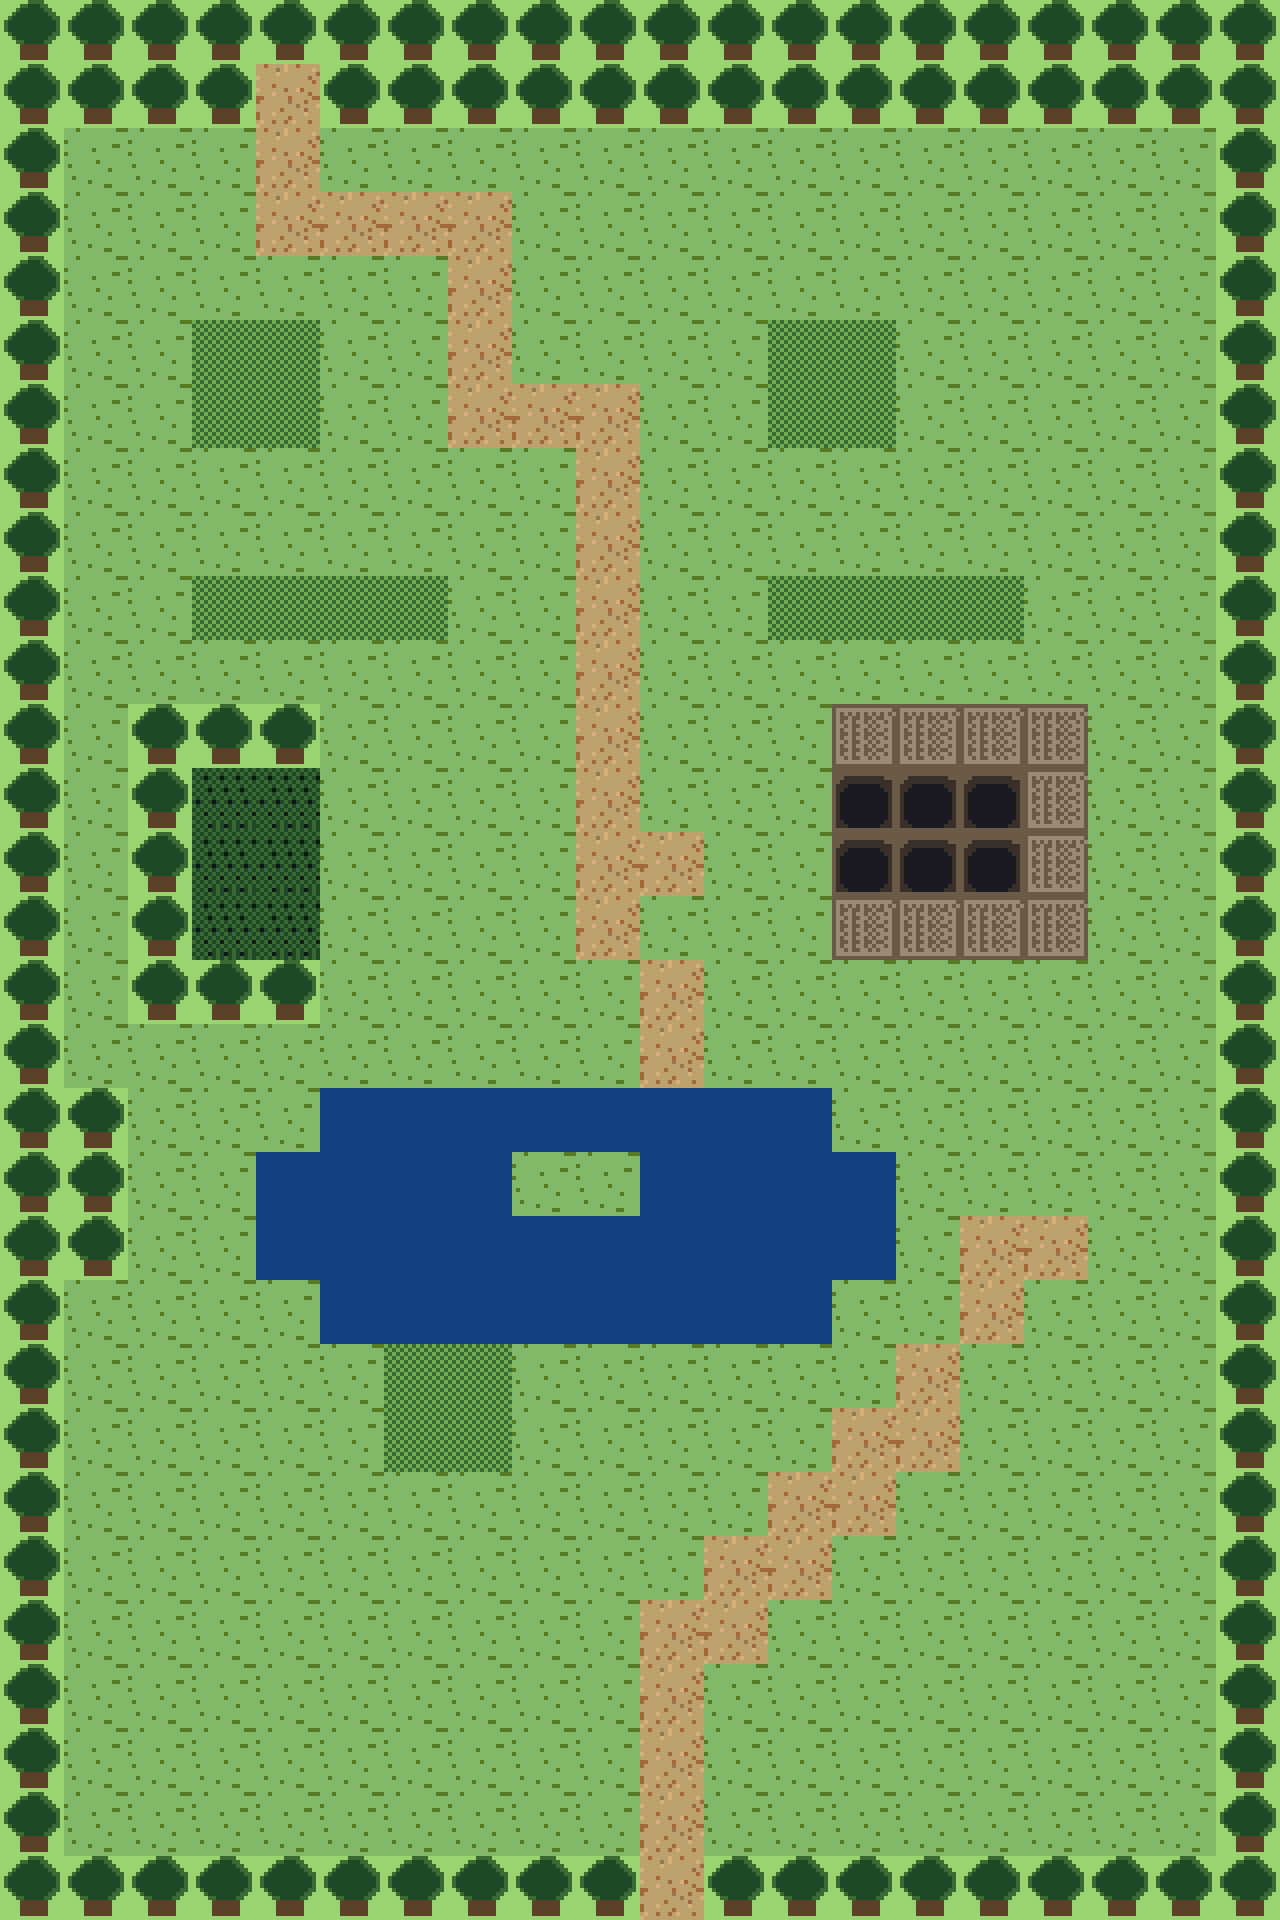
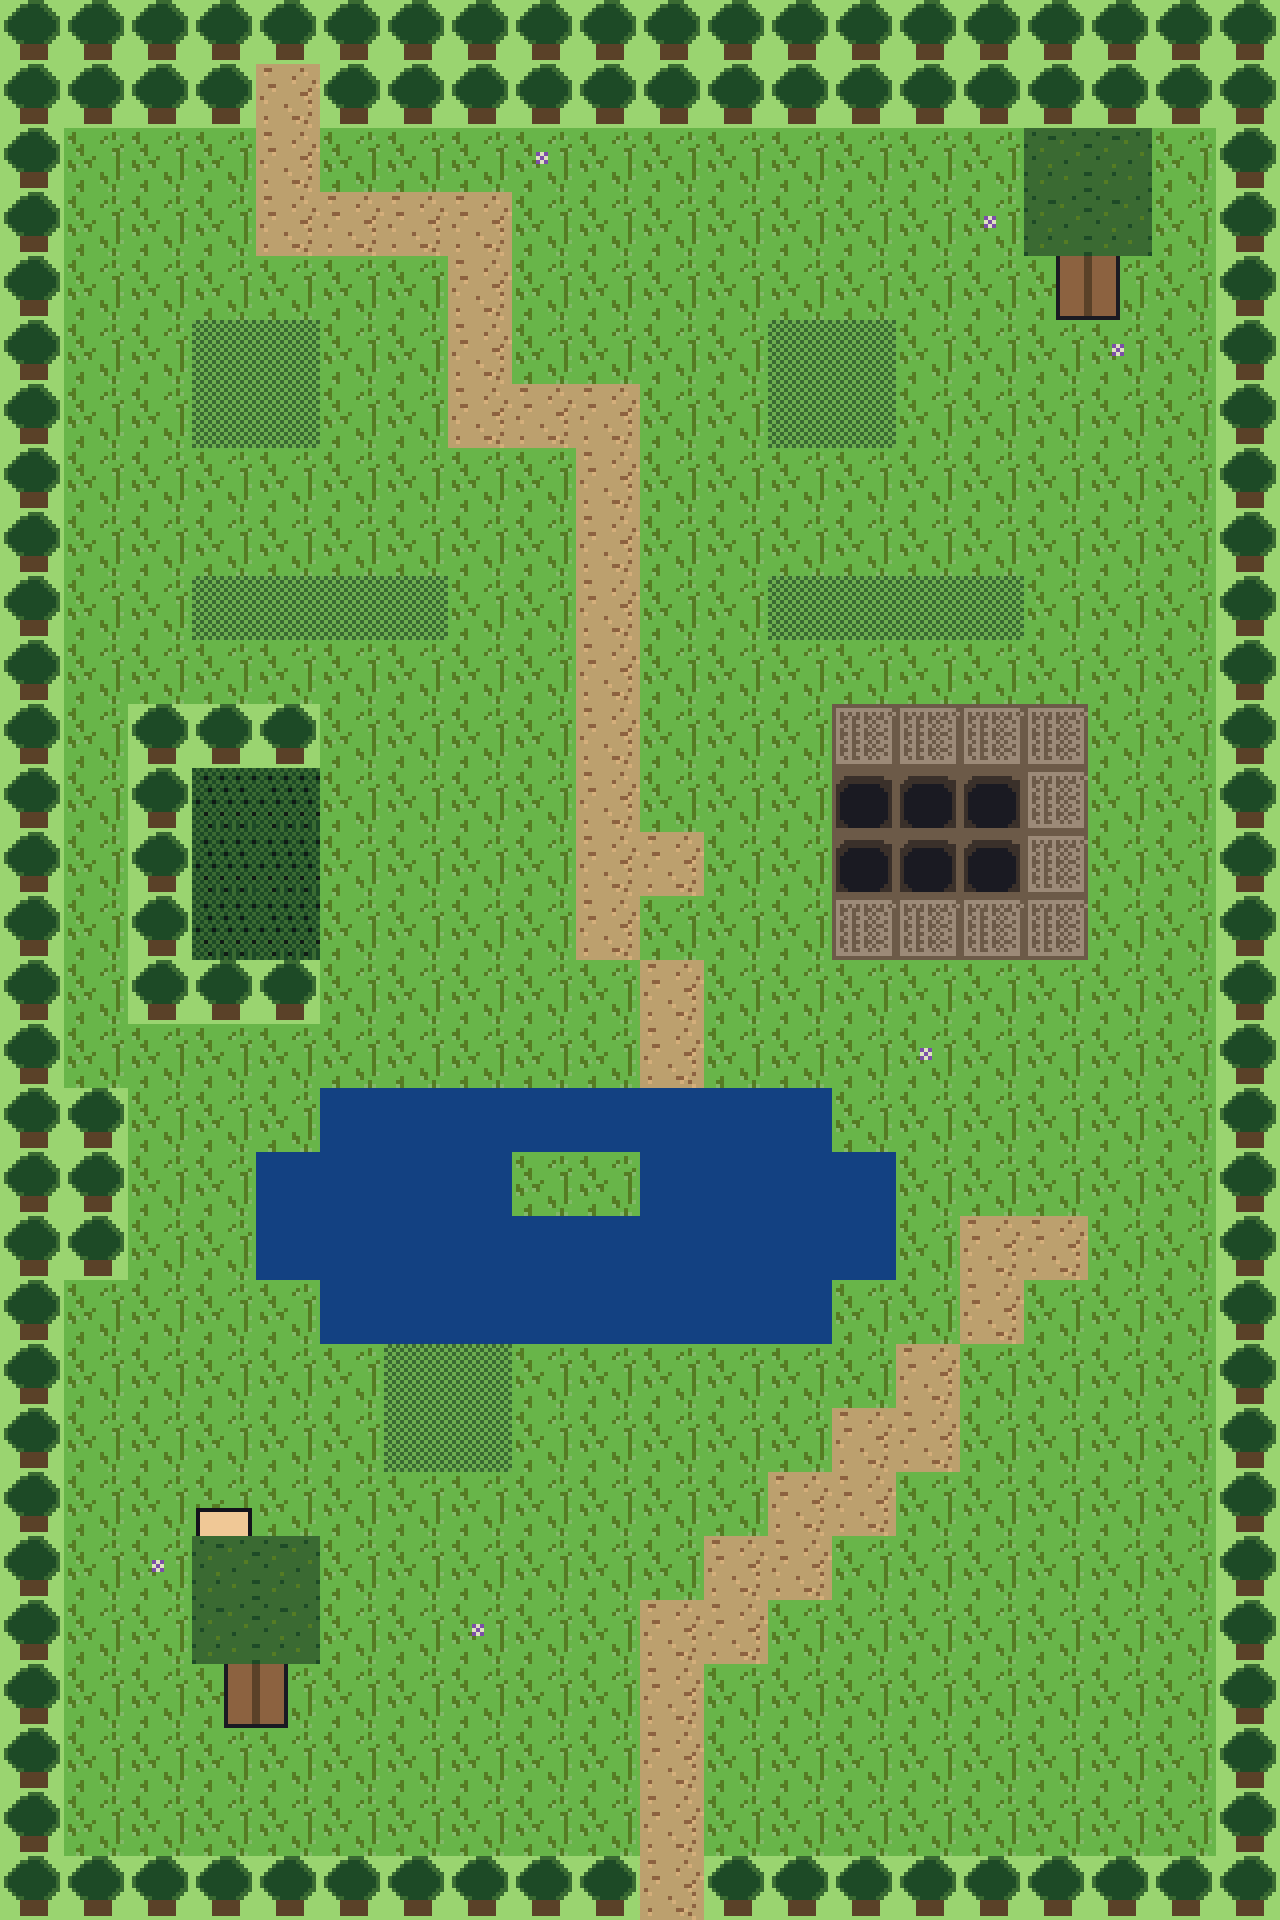
feat(maps): migrate Route 31 + Violet to the layered renderer (fringe + tree props)
Content pass adopting the Phase-7 layered format on the two live outdoor maps.

- outdoor_violet: + canopy/trunk_l/trunk_r + flower tiles (existing palette keys —
  NO palette change; 35 colours unchanged). tree_big prefab registered in maps.ts.
- Violet: layer1 fringe (8 flower decals) + layer2 props (4 Y-sorted tree_big) in
  open grass off the spine/paths/buildings.
- Route 31: layer1 fringe (6 decals) + layer2 props (2 tree_big) in open grass.

Collision verified (layers.test.ts +2 live tests): trunk bases BLOCK, canopies are
walkable so the player walks BEHIND them; spine anchors stay clear. Full suite
570 green, typecheck clean; all scripts/warps/encounters/JAY intact.

Design calls (flagged): the 1-tile perimeter stays a flat tree-wall boundary
(a 2x3 prop can't tile a 1-wide border); item/encounter forest clusters kept
intact — both are a deliberate scope choice, not a miss.

NOTE: route31.violet.json had diverged from its generator (gen_route31.mjs is
stale — the JSON was hand-edited post-gen with JAY's approachOnEnter + trainers).
A regen wipes that hand-content, so I reverted the generator and edited the JSON
DIRECTLY. Treat route31.violet.json as hand-maintained until the generator is
resynced.

Renders: docs/art-reference/{violet,route31}-rendered.png (route31 shows the
player behind the SW tree). render_violet.mjs now draws all 3 layers + player.

diff --git a/src/game/overworld/layers.test.ts b/src/game/overworld/layers.test.ts
@@ -60,6 +60,33 @@ describe('Y-sort order (depth occlusion)', () => {
   });
 });
 
+describe('live migration — Route 31 + Violet use the layered format', () => {
+  // getMap registers outdoor_violet + the tree_big prefab at module load.
+  test('Route 31 has tree props; trunk blocks, canopy is walkable (walk-behind)', async () => {
+    const { getMap } = await import('./maps');
+    const r = getMap('ROUTE31');
+    expect(r.props && r.props.length).toBeGreaterThanOrEqual(1);
+    expect(r.fringe).toBeDefined();
+    expect(isWalkable(r, 16, 4)).toBe(false); // trunk_l — blocks
+    expect(isWalkable(r, 17, 4)).toBe(false); // trunk_r — blocks
+    expect(isWalkable(r, 16, 2)).toBe(true); // canopy — walk behind it
+    expect(isWalkable(r, 16, 3)).toBe(true);
+  });
+
+  test('Violet has tree props; trunk blocks, canopy walkable; spine anchors intact', async () => {
+    const { getMap } = await import('./maps');
+    const v = getMap('VIOLET');
+    expect(v.props && v.props.length).toBeGreaterThanOrEqual(1);
+    expect(v.fringe).toBeDefined();
+    expect(isWalkable(v, 21, 9)).toBe(false); // trunk — blocks
+    expect(isWalkable(v, 22, 9)).toBe(false);
+    expect(isWalkable(v, 21, 7)).toBe(true); // canopy — walk behind it
+    // spine anchors must remain clear (no tree dropped on the route)
+    expect(isWalkable(v, 9, 1)).toBe(true); // north entry
+    expect(isWalkable(v, 9, 11)).toBe(true); // fromGym (above the gym door)
+  });
+});
+
 describe('back-compat — maps without layers are unaffected', () => {
   test('a map with no fringe/props leaves both undefined', () => {
     const plain = loadMap({

diff --git a/src/game/overworld/maps.ts b/src/game/overworld/maps.ts
@@ -21,6 +21,7 @@ import route31VioletData from '../maps/route31.violet.json';
 import outdoorVioletTileset from '../../../assets/tilesets/outdoor_violet.tileset.json';
 import houseVioletPrefab from '../../../assets/prefabs/house_violet.prefab.json';
 import gymVioletPrefab from '../../../assets/prefabs/gym_violet.prefab.json';
+import treeBigPrefab from '../../../assets/prefabs/tree_big.prefab.json';
 import { loadMap } from './mapLoader';
 import type { GrayboxMapJson, DataDrivenMapJson } from './mapLoader';
 import { registerPrefab, registerTileset } from './tilesetCatalog';
@@ -31,6 +32,7 @@ import type { MapData } from './types';
 registerTileset(outdoorVioletTileset as TilesetJson);
 registerPrefab(houseVioletPrefab as PrefabJson);
 registerPrefab(gymVioletPrefab as PrefabJson);
+registerPrefab(treeBigPrefab as PrefabJson);
 
 function isGrayboxForced(): boolean {
   if (typeof window === 'undefined') return false;